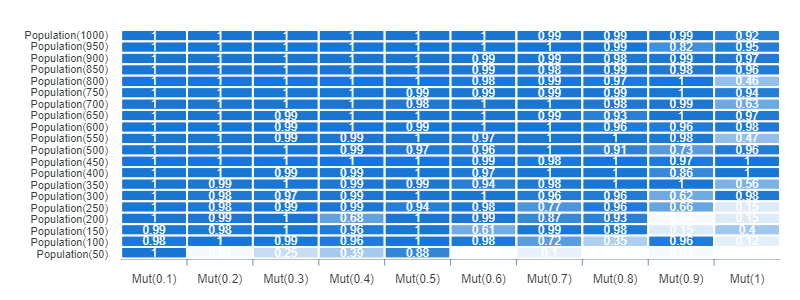
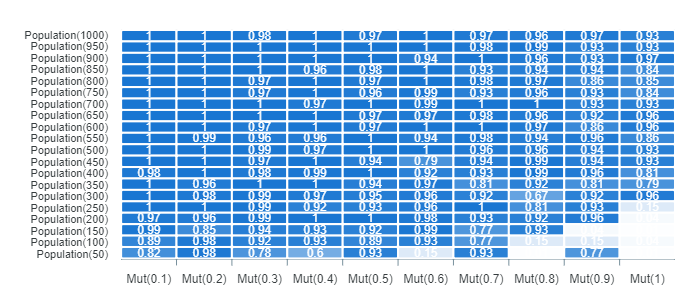
en homework 3

Changed region(s): [[0.0302, 0.09, 0.9971, 0.96]]

diff --git a/src/components/GeneticProgramming.vue b/src/components/GeneticProgramming.vue
@@ -53,6 +53,7 @@
               item-text="name"
               item-value="value"
               label="Operations"
+              @change="loadExperiment"
               multiple
               class='mt-5'
               outlined
@@ -120,7 +121,7 @@ export default{
     GChart
   },
   data: () => ({
-     targetgp:'65346',
+     targetgp: 'x*x + x - 6', //'65346',
      withRepetitions:true,
      maxOperations:25,
      renderMaxOperations:true,
@@ -131,7 +132,7 @@ export default{
       chartOptionsA:{yaxis:{labels:{
           formatter: (value) => `${Math.round(value * 100, 2)} %`
       }}},
-      terminals:'25, 7, 8, 100, 4, 2',
+      terminals:'-10.0, 10.0, 5.0, 0.0, 0.1, 2, -2, x, x, x, x, x, x',
       chartSettings: { packages: ['wordtree', 'table'] },
       chartOptionsHM:{colors: ["#1976d2"]},
       seriesHM:[],
@@ -161,8 +162,8 @@ export default{
         {name:'Max', value:'max'},
         {name:'Division', value:'div'},
       ],
-      experiment:'findTheNumber',
-      operation:['add', 'sub', 'mul', 'max'],
+      experiment:'Regressor',
+      operation:['add', 'sub', 'mul'],
       data:[
         ['AST']
       ]
@@ -176,17 +177,24 @@ export default{
         this.series[0]['data'] = []
         this.seriesHM = []
         this.ActualGeneration=0
-        this.targetgp = '65346'
+        this.targetgp = 'x*x + x - 6'
       },
       renderConditions: function(){
         return (this.targetgp.length > 0  &&
                 this.terminals.length > 0 &&
                 this.operation.length > 0)
       },
+      getTerminals: function(){
+        if(this.experiment == 'Regressor'){
+          return this.terminals.split(',').map(
+            (item)=> isNaN(item) ? item.trim(): parseFloat(item))
+        }
+        return this.terminals.split(',').map(parseFloat)
+      },
       buildEncoder: function(){
         let encoder = EncoderSelectorGP.get(this.experiment)
         let operations = this.operation.map(OperatorSelector.get)
-        let terminals = this.terminals.split(',').map(parseFloat)
+        let terminals = this.getTerminals()
         return new encoder(operations, terminals,  0.3,
                           parseFloat(this.maxOperations),
                           this.withRepetitions)
@@ -211,11 +219,12 @@ export default{
       },
       updatePopulation: function() {
         if(this.renderConditions()){
+          let lastScore = this.bestDna.score
           this.instanceOfPopulation.update(this.mutationRate)
           this.bestDna = this.instanceOfPopulation.getTheBest()
           this.data = this.bestDna.genes.toList()
           this.chartOptions.wordtree.word = this.bestDna.genes.value
-          this.series[0]['data'].push(this.bestDna.score)
+          this.series[0]['data'].push(this.bestDna.score || lastScore)
           this.ActualGeneration += 1
           this.render = true
         }else{
@@ -246,9 +255,7 @@ export default{
               for (var k = 0; k < 100; k++) {
                 if(this.bestDna.score == 1)
                   break
-                instanceOfPopulation.update(mutationRates[j])
-              }
-              console.log(population[i], mutationRates[j])
+                instanceOfPopulation.update(mutationRates[j])}
 
               data.push({
                 x:`Mut(${mutationRates[j]})`,

diff --git a/src/gp/encoders.js b/src/gp/encoders.js
@@ -1,6 +1,5 @@
+const similarity = require( 'compute-cosine-similarity' )
 const {Terminal} = require('./trees')
-const {randomInt} = require('mathjs')
-
 
 class AbstractSyntacticTree{
 
@@ -12,7 +11,6 @@ class AbstractSyntacticTree{
     this.terminals = terminals
     this.cutproba = cutproba
     this.nodes = nodes
-
   }
 
   getFromArray(array){
@@ -65,14 +63,18 @@ class AbstractSyntacticTreeRegresor extends AbstractSyntacticTree{
 
   fitness(target, genes){
     let penalize = this.getPenalization(genes)
-    // let space = Array.from({length:200}, (_, i)=> i - 100).map()
-    return 1
+    let predicted = Array.from({length:200}, (_, i)=> i - 100).map(
+      (value) => genes.eval({x : value})
+    )
+    return similarity(target, predicted) - penalize
   }
 
   encode(target){
-    return target
+    return Array.from({length:200}, (_, i)=> i - 100).map(
+      (x) => eval(target)
+    )
   }
-  
+
 }
 
 class EncoderSelectorGP{

diff --git a/src/gp/trees.js b/src/gp/trees.js
@@ -7,7 +7,7 @@ class Node{
     this.args = Array()
   }
 
-  eval(variable=null){
+  eval(variable={}){
     return this.functor(
     ...this.args.map((node) => node.eval(variable)))
   }
@@ -145,9 +145,10 @@ class Terminal extends Node{
     this.value = value
   }
 
-  eval(variable=null){
-    if(typeof(this.value) == 'string')
-      return variable[this.value] || 0
+  eval(variable={}){
+    if(isNaN(this.value)){
+        return variable[this.value] || 0
+    }
     return this.value
   }
 }

diff --git a/README.md b/README.md
@@ -67,7 +67,8 @@ The implementation of the core algorithm only depend on of the encoder, I mean t
 
 # Description About Genetic Programming Implementation
 
-The following lines graph illustrate the score evolution over the n generations of the population. Units are measured in percent.
+The following lines graph illustrate the score evolution over the n generations of the population. Units are measured in percent. To compute the bellow figures we only change the parameters of the panel.
+
 
 ### Exercise Find Number without limit of repetitions
  Overall, the score increased over the generation given. At the start of the generation the score is high; nevertheless,  in some cases it fall dramatically.
@@ -102,25 +103,30 @@ class Terminal extends Node{
     this.value = value
   }
 
-  eval(variable=null){
-    if(typeof(this.value) == 'string')
-      return variable[this.value] || 0
+  eval(variable={}){
+    if(isNaN(this.value)){
+        return variable[this.value] || 0
+    }
     return this.value
   }
 }
-
 ```
 
 ### Exercise Symbolic Regression
+Since the function to be approximated is not complex, with a considerable amount of population the problem can be easily resolved.
 
-**Image line evolution**
+As can be seen in the figure below, the similarity between the functions is almost perfect since starting at 99% similarity, this similarity was calculated with the help of the normalized cosine distance. The idea of the objective function was to maximize the similarity.
+
+![N|Solid](https://raw.githubusercontent.com/jthoth/AnnsJs/master/public/images/regresor.png)
 
 ### Exercise Division Node
 In JavaScript does not exist Division Zero Exception, Thus only we need to add a simple characteristic to the fitness function to ignore the Nans values generated for those invalid trees
 
-## Analysis over Find Number without limit of repetitions (Grid Search)
+## Analysis over Find Number with limit of repetitions (Grid Search)
 
+As can be seen in the following figure, a small population with little mutation rate has the worst results. Another important factor to note is that with a high mutation rate the problem does not converge to a solution.
 
+The graph also shows us that for this problem it is advisable to use a small mutation rate with a population of 200 individuals.
 
 ![N|Solid](https://raw.githubusercontent.com/jthoth/AnnsJs/master/public/images/heatmap.png)
 
